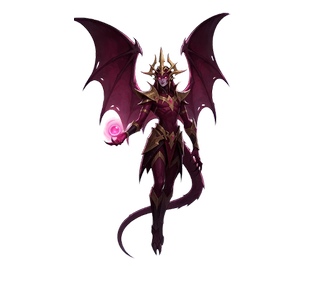
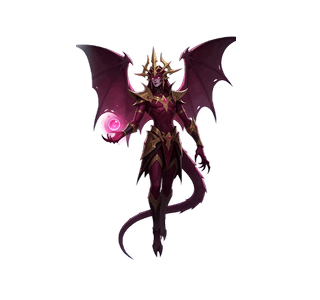
Azazel: voo com a ordem de quadros escolhida pelo usuário
walk_0..5 = espelhados 1, 3, 4; originais 4, 5; espelhado 2

Changed region(s): [[0.2188, 0.03, 0.75, 0.87]]

diff --git a/art_source/README.md b/art_source/README.md
@@ -14,7 +14,7 @@ Esta pasta tem `.gdignore`: o Godot NÃO importa nem exporta nada daqui (não pe
 | `baal/` (6 folhas, fundo transparente) | Baal: andar, preparar/correr a investida, pancada em área, golpe corpo a corpo (`baal_melee`, o 3º quadro não é usado), morte | Recortadas (metade da resolução, tamanho igualado entre as folhas) em `assets/bosses/baal/*.png`, todas num quadro 380x232 com os pés no mesmo ponto; animações em `BossArt.SHEETS`. O 1º quadro da morte foi espelhado (olhava para o outro lado). O avanço da folha de investida (3º quadro) não é usado |
 | `mordath/` (6 folhas, fundo transparente) | Mordath: flutuar, conjurar/lançar, invocar, morte, portal de invocação, bola de fogo | Corpo em `assets/bosses/mordath/*.png` (quadro 218x285, pés/barra da capa alinhados; animações em `BossArt.SHEETS`; o 1º quadro do andar foi espelhado, olhava para trás). Efeitos em `assets/bosses/mordath/fx/` (`BossFx`). **Sem uso:** os 3 últimos quadros do portal e os 2 últimos da invocação (pedido do usuário); o leque e a bola desenhados nos quadros de lançar foram cortados (as bolas de verdade saem da mão) |
 | `ignarr/` (7 folhas, fundo transparente) | Ignarr: andar, golpe, sopro, rugido dos meteoros, morte, efeito do sopro, meteoro | Corpo em `assets/bosses/ignarr/*.png` (quadro 588x340, patas alinhadas; andar e sopro espelhados porque olhavam para a esquerda; o fogo desenhado na boca foi cortado, o sopro é um efeito à parte). Efeitos em `assets/bosses/ignarr/fx/`. **Sem uso:** 1º e 5º quadros da folha de ataque (de frente/fora de escala) |
-| `azazel/` (8 folhas, fundo transparente) | Azazel: voo, arremesso, orbes de almas, sumir/surgir (passo sombrio), morte, efeito do orbe, portal de sombra | Corpo em `assets/bosses/azazel/*.png` (quadro 320x300; asas vizinhas e orbes soltos removidos no recorte). Efeitos em `assets/bosses/azazel/fx/`. O voo foi espelhado (o rosto olhava para trás). Orbe: `azazel_orb2_fx.webp` (quadros 1,2,3,7,8 -> `fx/soul_*`); `azazel_orb_fx.webp` ficou sem uso. **Sem uso:** 1º–3º quadros da folha de arremesso, quadros 4–6 do orbe novo |
+| `azazel/` (8 folhas, fundo transparente) | Azazel: voo, arremesso, orbes de almas, sumir/surgir (passo sombrio), morte, efeito do orbe, portal de sombra | Corpo em `assets/bosses/azazel/*.png` (quadro 320x300; asas vizinhas e orbes soltos removidos no recorte). Efeitos em `assets/bosses/azazel/fx/`. O voo usa os quadros escolhidos pelo usuário (mistura de originais e espelhados: 1,3,4 espelhados, 4 e 5 originais, 2 espelhado, nessa ordem). Orbe: `azazel_orb2_fx.webp` (quadros 1,2,3,7,8 -> `fx/soul_*`); `azazel_orb_fx.webp` ficou sem uso. **Sem uso:** 1º–3º quadros da folha de arremesso, quadros 4–6 do orbe novo |
 | `angel_v2_c.webp`, `angel_v2_ultra.webp` | Mesmas poses redesenhadas (asas iguais); a `ultra` tem a fase Ultra-Power com céu/chão desenhados atrás | Guardadas. As da `ultra` com cenário não dão para recortar sem refazer o fundo |
 | `mobs_sheet.webp` | Mobs (gosma, guerreiro de escudo, espectro, golem de lava, diabinho, demônio roxo, aranha) e 4 anjos | Recortada em `assets/mobs/` (dados em `MobArt.SHEETS`). **Sem uso por enquanto:** aranha e os 4 anjos |
 | `world_props_sheet.png` | Objetos do **mundo aberto** (portal, arcos, muralhas, estandartes, ilhas flutuantes, chão de lava) | **Guardada para depois.** Atenção: o fundo xadrez está DESENHADO na imagem (não é transparência de verdade); antes de usar, precisa remover o xadrez ou pedir a folha com fundo transparente |
